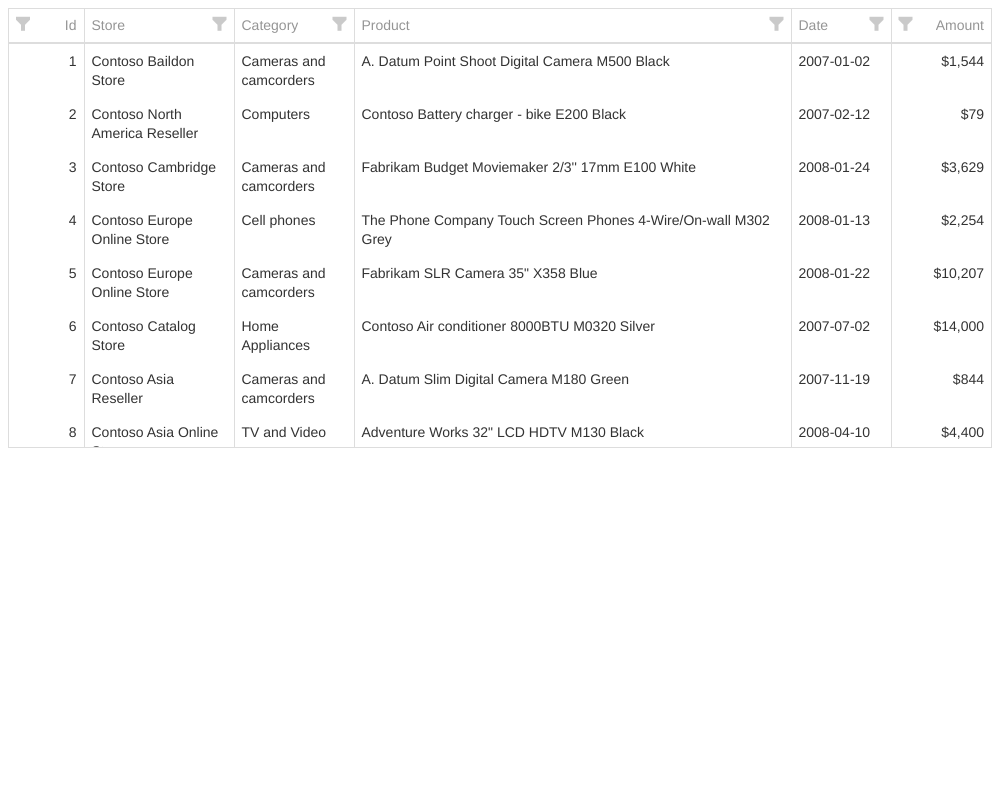
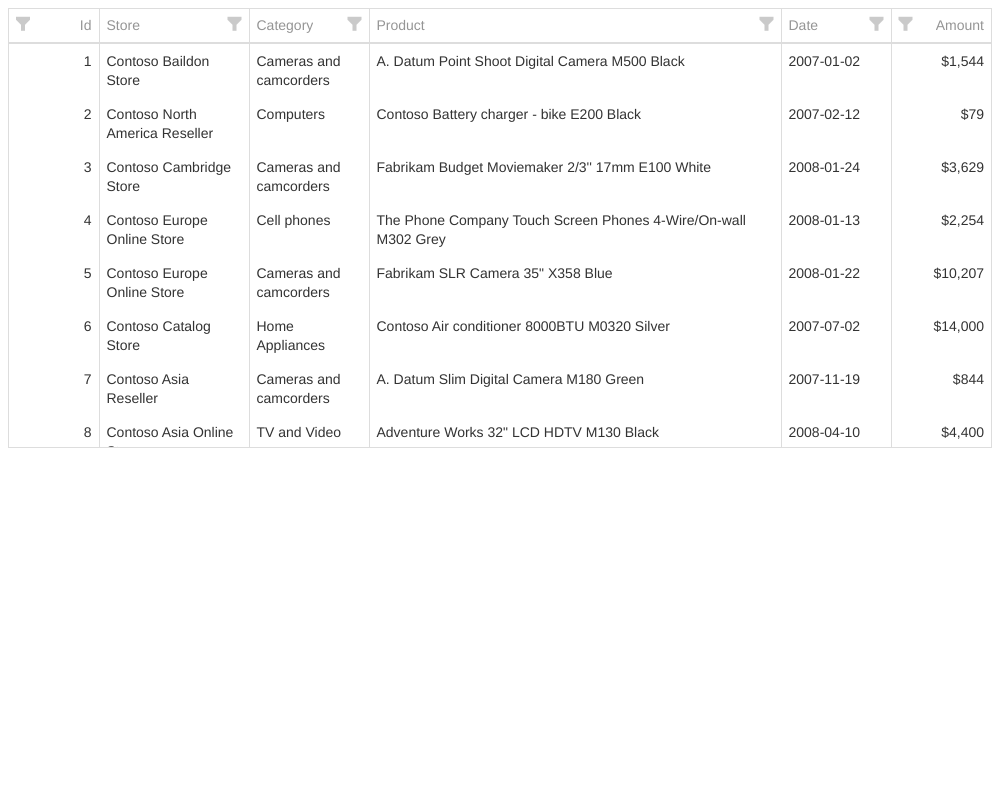
DataGrid - fix column width (#2981)
* DataGrid - fix column width (#2886)

* fix width

* update baseline

* fix mvc

* fix generated

diff --git a/JSDemos/Demos/DataGrid/RemoteVirtualScrolling/React/App.js b/JSDemos/Demos/DataGrid/RemoteVirtualScrolling/React/App.js
@@ -1,0 +1,42 @@
+import React from 'react';
+
+import DataGrid, {
+  Scrolling, Paging, Column, HeaderFilter, Search,
+} from 'devextreme-react/data-grid';
+import * as AspNetData from 'devextreme-aspnet-data-nojquery';
+
+const dataSource = AspNetData.createStore({
+  key: 'Id',
+  loadUrl: 'https://js.devexpress.com/Demos/WidgetsGalleryDataService/api/Sales',
+});
+
+class App extends React.Component {
+  render() {
+    return (
+      <DataGrid
+        height={440}
+        dataSource={dataSource}
+        showBorders={true}
+        remoteOperations={true}
+        wordWrapEnabled={true}
+      >
+        <Scrolling mode="virtual" rowRenderingMode="virtual" />
+        <Paging defaultPageSize={100} />
+        <HeaderFilter visible={true}>
+          <Search enabled={true} />
+        </HeaderFilter>
+
+        <Column dataField="Id" width={90} />
+        <Column dataField="StoreName" caption="Store" width={150} />
+        <Column dataField="ProductCategoryName" caption="Category" width={120} />
+        <Column dataField="ProductName" caption="Product" />
+        <Column dataField="DateKey" caption="Date" dataType="date" format="yyyy-MM-dd" width={110} />
+        <Column dataField="SalesAmount" caption="Amount" format="currency" width={100}>
+          <HeaderFilter groupInterval={1000} />
+        </Column>
+      </DataGrid>
+    );
+  }
+}
+
+export default App;

diff --git a/JSDemos/Demos/DataGrid/RemoteVirtualScrolling/React/App.tsx b/JSDemos/Demos/DataGrid/RemoteVirtualScrolling/React/App.tsx
@@ -23,11 +23,11 @@ const App = () => (
       <Search enabled={true} />
     </HeaderFilter>
 
-    <Column dataField="Id" width={75} />
+    <Column dataField="Id" width={90} />
     <Column dataField="StoreName" caption="Store" width={150} />
     <Column dataField="ProductCategoryName" caption="Category" width={120} />
     <Column dataField="ProductName" caption="Product" />
-    <Column dataField="DateKey" caption="Date" dataType="date" format="yyyy-MM-dd" width={100} />
+    <Column dataField="DateKey" caption="Date" dataType="date" format="yyyy-MM-dd" width={110} />
     <Column dataField="SalesAmount" caption="Amount" format="currency" width={100}>
       <HeaderFilter groupInterval={1000} />
     </Column>

diff --git a/JSDemos/Demos/DataGrid/RemoteVirtualScrolling/Angular/app/app.component.html b/JSDemos/Demos/DataGrid/RemoteVirtualScrolling/Angular/app/app.component.html
@@ -11,7 +11,7 @@
     <dxo-search [enabled]="true"></dxo-search>
   </dxo-header-filter>
 
-  <dxi-column dataField="Id" width="75"></dxi-column>
+  <dxi-column dataField="Id" width="90"></dxi-column>
   <dxi-column dataField="StoreName" caption="Store" width="150"></dxi-column>
   <dxi-column
     dataField="ProductCategoryName"
@@ -24,7 +24,7 @@
     caption="Date"
     dataType="date"
     format="yyyy-MM-dd"
-    width="100"
+    width="110"
   ></dxi-column>
   <dxi-column
     dataField="SalesAmount"

diff --git a/JSDemos/Demos/DataGrid/RemoteVirtualScrolling/jQuery/index.js b/JSDemos/Demos/DataGrid/RemoteVirtualScrolling/jQuery/index.js
@@ -22,7 +22,7 @@ $(() => {
     showBorders: true,
     columns: [{
       dataField: 'Id',
-      width: 75,
+      width: 90,
     }, {
       caption: 'Store',
       dataField: 'StoreName',
@@ -39,7 +39,7 @@ $(() => {
       dataField: 'DateKey',
       dataType: 'date',
       format: 'yyyy-MM-dd',
-      width: 100,
+      width: 110,
     }, {
       caption: 'Amount',
       dataField: 'SalesAmount',

diff --git a/JSDemos/Demos/DataGrid/RemoteVirtualScrolling/ReactJs/App.js b/JSDemos/Demos/DataGrid/RemoteVirtualScrolling/ReactJs/App.js
@@ -31,7 +31,7 @@ const App = () => (
 
     <Column
       dataField="Id"
-      width={75}
+      width={90}
     />
     <Column
       dataField="StoreName"
@@ -52,7 +52,7 @@ const App = () => (
       caption="Date"
       dataType="date"
       format="yyyy-MM-dd"
-      width={100}
+      width={110}
     />
     <Column
       dataField="SalesAmount"

diff --git a/JSDemos/Demos/DataGrid/RemoteVirtualScrolling/Vue/App.vue b/JSDemos/Demos/DataGrid/RemoteVirtualScrolling/Vue/App.vue
@@ -21,7 +21,7 @@
 
     <DxColumn
       data-field="Id"
-      width="75"
+      width="90"
     />
     <DxColumn
       data-field="StoreName"
@@ -42,7 +42,7 @@
       caption="Date"
       data-type="date"
       format="yyyy-MM-dd"
-      width="100"
+      width="110"
     />
     <DxColumn
       data-field="SalesAmount"
